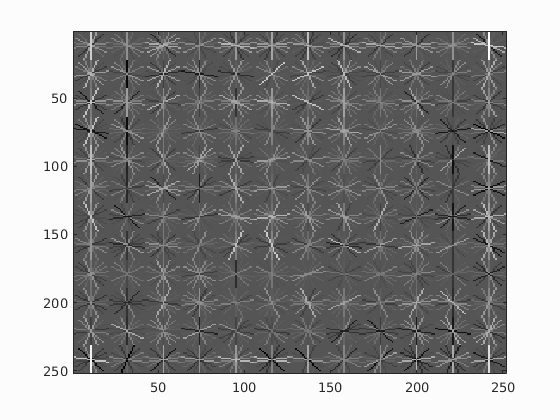
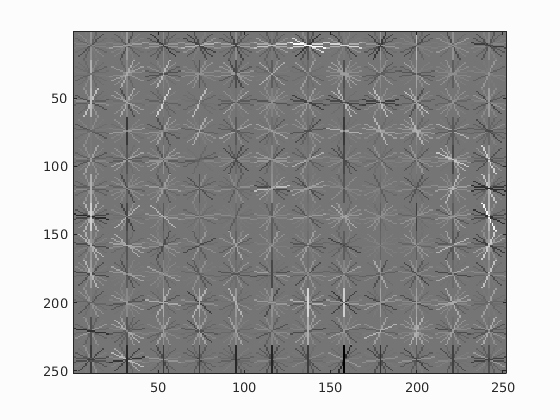
Check strong supervised detection

diff --git a/get_strong_positive_features.m b/get_strong_positive_features.m
@@ -4,7 +4,7 @@
 % HoG template according to 'feature_params'. For improved performance, try
 % mirroring or warping the positive training examples.
 
-function features_pos = get_positive_features(VOCopts, cls, feature_params)
+function features_pos = get_strong_positive_features(VOCopts, cls, feature_params)
 % 'train_path_pos' is a string. This directory contains 36x36 images of
 %   faces
 % 'feature_params' is a struct, with fields
@@ -32,11 +32,10 @@ function features_pos = get_positive_features(VOCopts, cls, feature_params)
 
 image_files = textread(sprintf(VOCopts.imgsetpath,'trainval'),'%s');
 num_images = length(image_files);
-features_pos=cell(1, num_images);
-D = (feature_params.template_size / feature_params.hog_cell_size)^2 * feature_params.hog_dimension;
-load ('SelectiveSearchVOC2007trainval.mat');
+features_pos=[];
+
 tic;
-for i = 1:25
+for i = 1 : num_images
     % display progress
     if toc>1
         fprintf('%s: get positive feature: %d/%d\n',cls,i,num_images);
@@ -49,7 +48,7 @@ for i = 1:25
     
     % find objects of class and extract difficult flags for these objects
     clsinds=strmatch(cls,{rec.objects(:).class},'exact');
-    diff=[rec.objects(clsinds).difficult];
+    diff=[rec.objects.difficult];
     
     % assign ground truth class to image
     if isempty(clsinds)
@@ -60,18 +59,18 @@ for i = 1:25
         gt=0;           % only difficult objects
     end
     
-    if gt
+    if gt==1
         % extract features for image
         % compute and save features
         image = single(imread(sprintf(VOCopts.imgpath,image_files{i})));
-        image_boxes = boxes{i};
-        features_pos{i}=zeros(size(image_boxes, 1), D);
+        image_boxes = rec.objects(clsinds).bbox;
+        
         for j=1:size(image_boxes, 1)
-            template = imresize(image(image_boxes(j,1):image_boxes(j,3), image_boxes(j,2):image_boxes(j,4)), [72 72]);
+            template = imresize(image(image_boxes(j,2):image_boxes(j,4), image_boxes(j,1):image_boxes(j,3), :), [72 72]);
             template_hog=vl_hog(template, feature_params.hog_cell_size);
-            features_pos{i}(j, :)=reshape(template_hog, 1, []);
+            features_pos=[features_pos;reshape(template_hog, 1, [])];
         end
     end
 end
 
-save('features_pos.mat', 'features_pos', '-v7.3');
+save('features_pos_strong.mat', 'features_pos', '-v7.3');

diff --git a/get_random_negative_features.m b/get_random_negative_features.m
@@ -40,6 +40,7 @@ D = (feature_params.template_size / feature_params.hog_cell_size)^2 * feature_pa
 n_features_per_image = ceil(num_samples/num_images);
 t_size = feature_params.template_size;
 features_neg = zeros(n_features_per_image*num_images, D);
+k=1;
 tic;
 for i = 1:num_images
     % display progress
@@ -68,18 +69,22 @@ for i = 1:num_images
     if gt == -1
         % extract features for image
         % compute and save features
-        img = single(imread(sprintf(VOCopts.imgpath,image_files{i})));scale = rand();
+        img = single(imread(sprintf(VOCopts.imgpath,image_files{i})));
         min_scale = 2*max(feature_params.template_size/size(img, 1), feature_params.template_size/size(img, 2));
-        image = imresize(img, max(min_scale, scale));
-        [height, width, channel] = size(image);
         for j = 1:n_features_per_image
+            scale = rand();
+            scaledimage = imresize(img, max(min_scale, scale));
+            [height, width, channel] = size(scaledimage);
+        
             offset_x = ceil(rand()*(width-t_size));
             offset_y = ceil(rand()*(height-t_size));
             
-            part_image = image(offset_y:offset_y+t_size-1, offset_x:offset_x+t_size-1);
-            features_neg((i-1)*n_features_per_image+j, :) = reshape(vl_hog(single(part_image), feature_params.hog_cell_size), [], 1);
+            part_image = scaledimage(offset_y:offset_y+t_size-1, offset_x:offset_x+t_size-1);
+            features_neg(k, :) = reshape(vl_hog(single(part_image), feature_params.hog_cell_size), [], 1);
+            k=k+1;
         end
     end
 end
+features_neg = features_neg(1:k, :);
 save('features_rand_neg.mat', 'features_neg', '-v7.3');
 

diff --git a/demo_A3.m b/demo_A3.m
@@ -67,7 +67,7 @@ resultPath = 'results/VOC2007';
 % 'scale_step', 0.9, 'scale_size', 20)
 
 feature_params = struct('template_size', 72, 'hog_cell_size', 6, ...
-    'hog_dimension', 31, 'threshold', -1.0, 'svm_lambda', 0.0001, ...
+    'hog_dimension', 31, 'threshold', 0, 'svm_lambda', 0.0001, ...
     'num_negative_examples', 75000, 'num_hard_negative_iteration', 10, ...
     'scale_step', 0.90, 'scale_size', 40)
 
@@ -104,7 +104,7 @@ catch
         fprintf('iteration:%d classifier training\n', t);
         features_pos_mat = cell2mat(features_pos);
         k=[repelem(1, size(features_pos_mat, 1)), repelem(-1, size(features_neg, 1))]';
-        [w b] = vl_svmtrain([features_pos_mat' features_neg'], [repelem(1, size(features_pos_mat, 1)), repelem(-1, size(features_neg, 1))]', feature_params.svm_lambda);
+        [w b] = vl_svmtrain([features_pos_mat' features_neg'], k, feature_params.svm_lambda);
         
         %window refinement
         %fprintf('iteration:%d window refining\n', t);

diff --git a/corloc.m b/corloc.m
@@ -26,7 +26,8 @@ for l = 1:size(image_names)
                 flag = true;
                 gt = gt + 1 ;
             end
-            anno_box = [anno.objects(j).bbox(1:2), anno.objects(j).bbox(3)-anno.objects(j).bbox(1), anno.objects(j).bbox(4)-anno.objects(j).bbox(2)] ;
+            %anno_box = [anno.objects(j).bbox(1:2), anno.objects(j).bbox(3)-anno.objects(j).bbox(1), anno.objects(j).bbox(4)-anno.objects(j).bbox(2)] ;
+            anno_box = [anno.objects(j).bbox(2), anno.objects(j).bbox(1), anno.objects(j).bbox(4)-anno.objects(j).bbox(2), anno.objects(j).bbox(3)-anno.objects(j).bbox(1)];
             iou = bboxOverlapRatio(anno_box, best_box, 'Union') ;
             if iou > bestIOU
                 bestIOU = iou ;

diff --git a/get_hard_negative_features.m b/get_hard_negative_features.m
@@ -7,11 +7,13 @@
 function [features_pos, features_neg] = .... 
     get_hard_negative_features(features_pos, features_neg, w, b, threshold)
 
-for n=1:size(features_pos(1, :))
-    index_confidence = features_pos{n}*w+b<threshold;
-    features_neg = [features_neg;features_pos{n}(index_confidence, :)];
-    features_pos{n} = features_pos{n}(~index_confidence, :);
-end
+
+    pos_index_confidence = features_pos*w+b<threshold;
+    neg_index_confidence = features_neg*w+b<threshold;
+    features_neg = [features_neg(neg_index_confidence, :);features_pos(pos_index_confidence, :)];
+    features_pos = [features_neg(~neg_index_confidence, :);features_pos(~pos_index_confidence, :)];
+
+    
 
 end
 

diff --git a/run_detector.m b/run_detector.m
@@ -39,7 +39,7 @@ function [bboxes, confidences, image_ids] = ....
 % non-maximum suppression. For your ale_stepinitial debugging, you can operate only
 % at a single scale and you can skip calling non-maximum suppression.
 
-test_scenes = textread(sprintf(VOCopts.imgsetpath,'test'),'%s');
+test_scenes = textread(sprintf(VOCopts.imgsetpath,'val'),'%s');
 
 cell_size = feature_params.hog_cell_size;
 num_cell_in_window = feature_params.template_size / cell_size;
